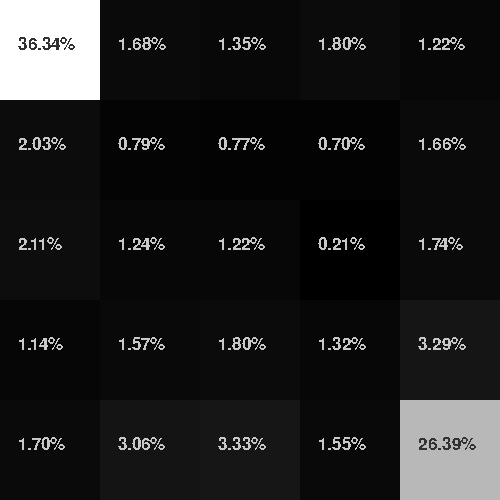
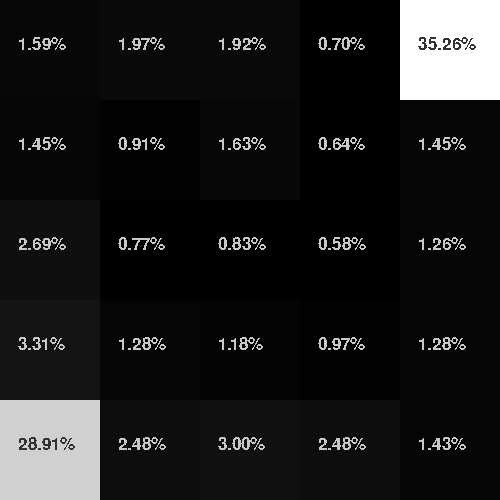
integrated correction cosine distance in ksom

diff --git a/ksom.py b/ksom.py
@@ -3,6 +3,7 @@
 
 import torch
 from torch.nn import CosineSimilarity
+from torchmetrics.functional import pairwise_cosine_similarity
 import math
 import numpy as np
 
@@ -11,12 +12,10 @@ def euclidean_distance(x,y):
     the tensor x and the ones of the tensor y"""
     return torch.cdist(x,y,2)
 
-# BUG : does not work in batch !!! 
 def cosine_distance(x,y):
     """returns a distance matrix between the elements of 
     the tensor x and the ones of the tensor y"""
-    out = CosineSimilarity(dim=1, eps=1e-6)(x,y.repeat(len(x), 1))
-    return 1-out.resize(len(out), 1)
+    return 1 - pairwise_cosine_similarity(x,y)
 
 # TODO: #13 this does not seem to work...
 def nb_ricker(node, dims, coord, nb):

diff --git a/view_som.py b/view_som.py
@@ -1,6 +1,6 @@
 import sys
 import os
-from ksom import SOM, euclidean_distance
+from ksom import SOM
 import dataset
 import torch
 from sklearn.decomposition import PCA
@@ -63,7 +63,6 @@ if "dataset" in args and args.dataset is not None:
     smod = getLayer(model, layer)
     smod.register_forward_hook(get_activation(layer))
     print("*** applying model and getting frequencies")
-    som.dist = euclidean_distance # BUG: to remove the problem with cosine...
     som.to("cpu")
     dataset = dataset.KSDataset(args.dataset)
      # if concept 
